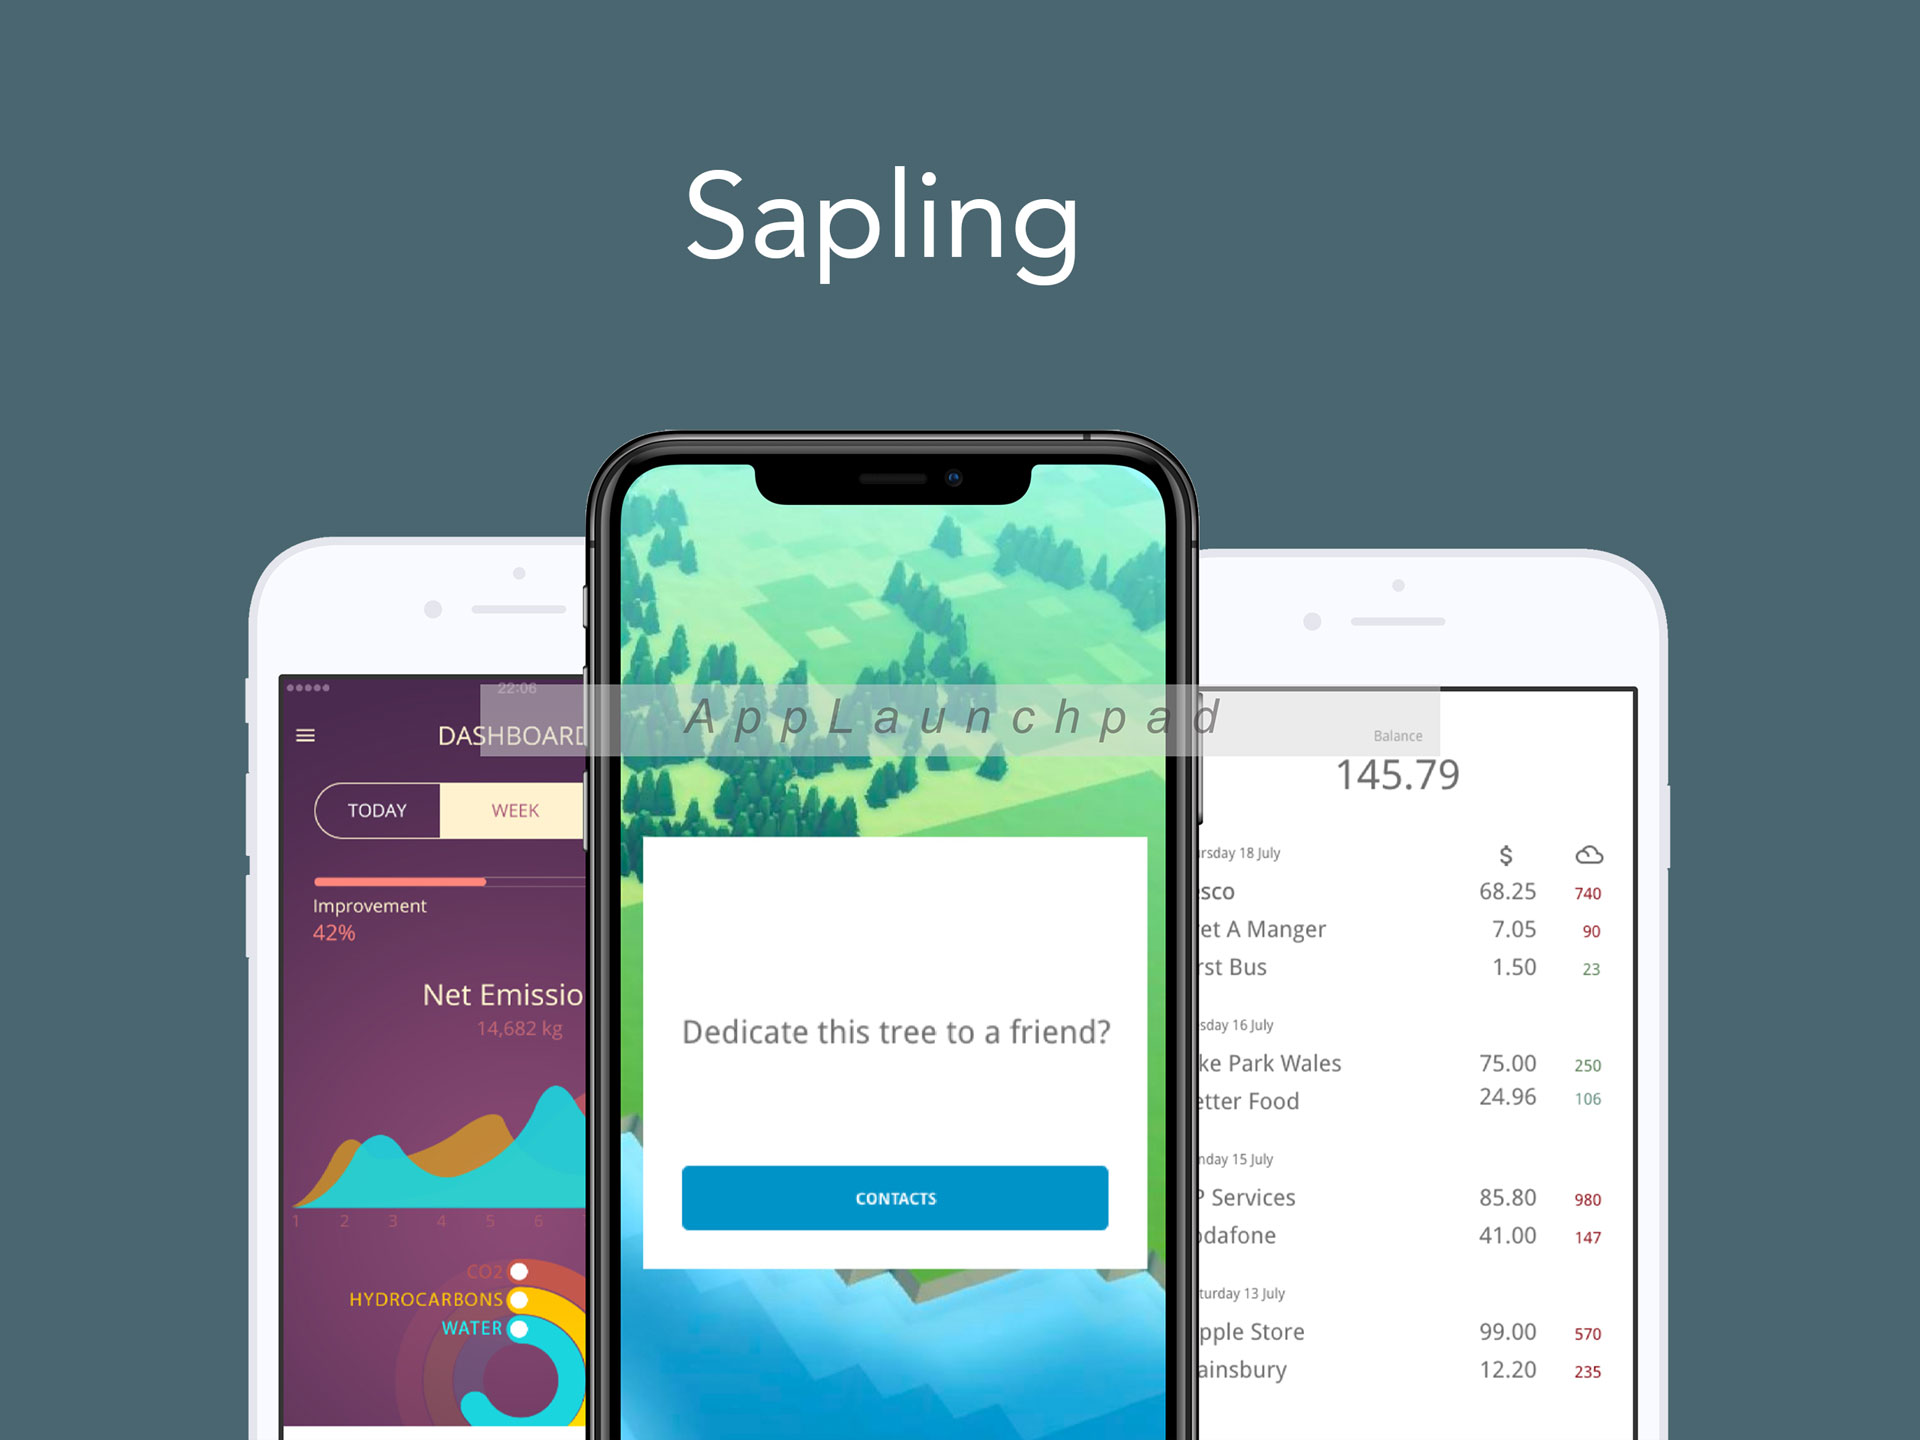
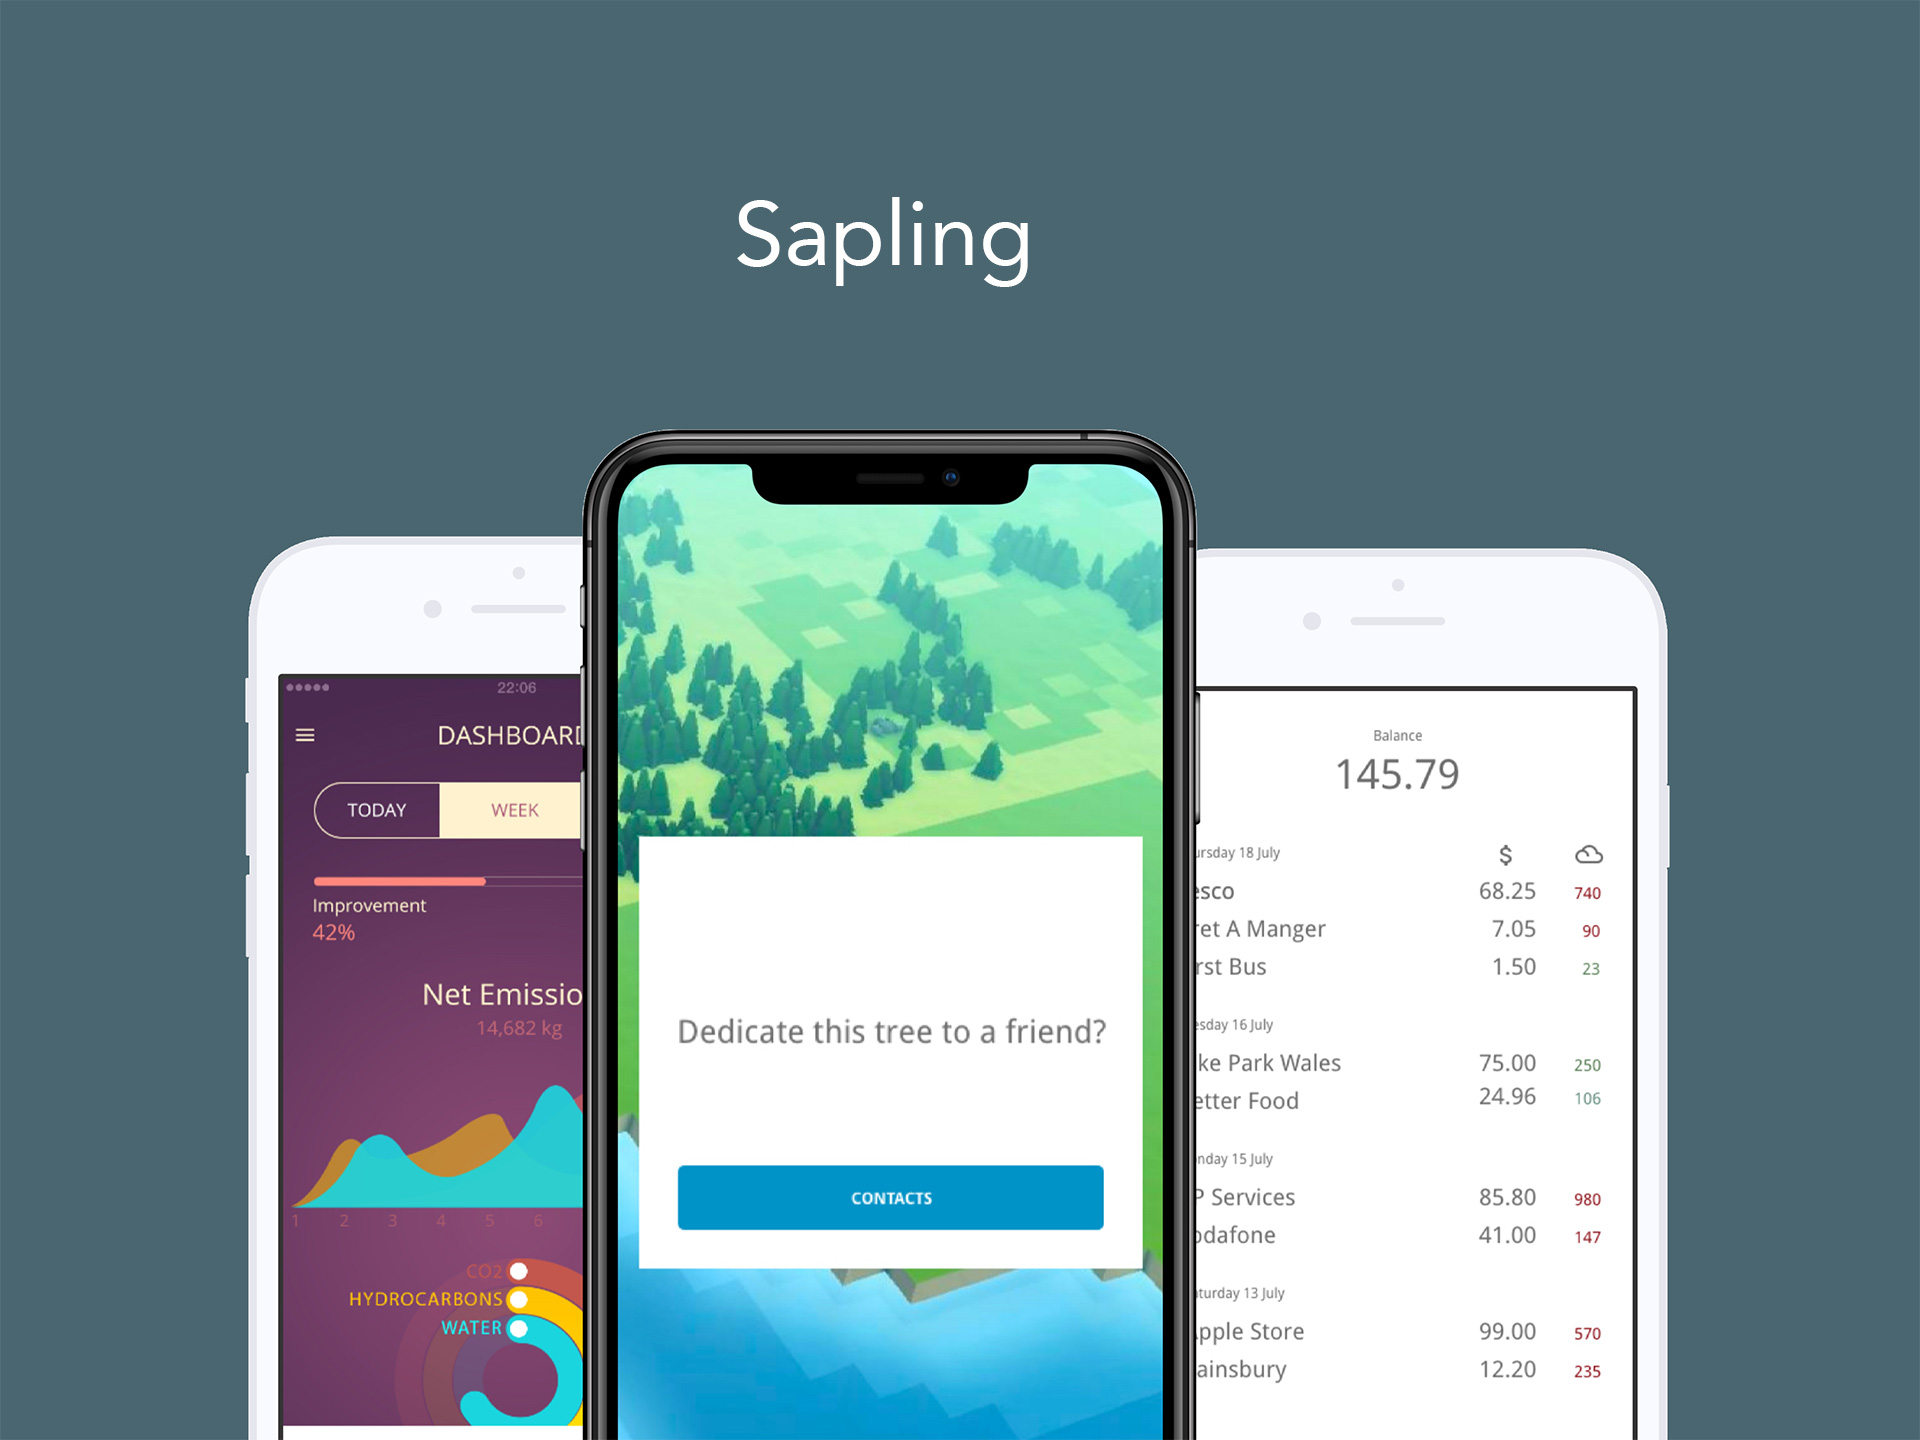
Layout V1

diff --git a/templates/template.html b/templates/template.html
@@ -3,19 +3,42 @@
 <html>
 <head>
     <meta charset="UTF-8">
+    <link href="https://fonts.googleapis.com/css?family=Nunito&display=swap" rel="stylesheet">
     <link rel="stylesheet" href="https://maxcdn.bootstrapcdn.com/bootstrap/4.0.0/css/bootstrap.min.css" integrity="sha384-Gn5384xqQ1aoWXA+058RXPxPg6fy4IWvTNh0E263XmFcJlSAwiGgFAW/dAiS6JXm" crossorigin="anonymous">
     <link rel="stylesheet" href="/static/stylesheets/app.css">
 
     <title>Sapling</title>
 </head>
 <body>
-    <div class="jumbotron">
-        <div class="container">
+    <div class="hero">
+        <div class="row" id="title">
+            <div class="col">
+
+            </div>
+            <div class="col text-center my-auto">
+                <h1 class="display-2">Sapling</h1>
+                <p>Next generation banking.</p>
+            </div>
+            <div class="col">
+
+            </div>
 
         </div>
+
+        <div class="row">
+            <div class="col-1">
+
+            </div>
+            <div class="col-10 text-center">
+                <img src="/static/img/sapling-m.png" class="img-fluid">
+            </div>
+            <div class="col-1">
+
+            </div>
+        </div>
+
     </div>
-    <br>
-    <div class="container">
+    <div class="container" id="content">
         <p> Sapling is a challenger bank.
 
             It challenges more than just the financial industry.
@@ -43,7 +66,6 @@
         <p>Not yet!</p>
 
         <h2>The Product</h2>
-        <p>Did you notice that in 2018, cash became virtually obsolete? This means that everything you spend goes through your bank and / or cards.</p>
 
         <p>Imagine an extra column on your bank statement. It’s not in pounds and pence; it’s in grammes. It’s the carbon footprint of every single purchase you make.</p>
 
@@ -52,16 +74,16 @@
         <p>Easy-to-understand reports give you the breakdown and highlight opportunities for improvement. Switch to retailers who’ve banned single-use packaging and favour local produce. See how many tonnes you can save by switching your energy supplier. Still over budget? Plant some trees!</p>
 
         <h2>The Plan</h2>
-        <p>Sapling is a community. That’s why the first round of investment is a crowdfund. We need £100K to take the current prototype to the next stage.</p>
+        <p>Sapling is a community. That’s why the first round of investment is a crowdfund. £100K is needed to take the current prototype to the next stage.</p>
 
-        <p>We already have:</p>
+        <p>Already in place:</p>
             <ul>
                 <li>Prototype Android and iOS apps</li>
                 <li>An API layer to connect to Open Banking, Point of Sale and loT devices</li>
                 <li>Support for cryptocurrencies</li>
             </ul>
 
-                <p>We now need:</p>
+                <p>To do:</p>
         <ul>
             <li>User Experience design</li>
             <li>KYC onboarding</li>
@@ -73,7 +95,7 @@
         <h2>The Payback</h2>
         <p>Profit is good. Profit motivates. But profit at the expense of the planet’s future is not worth having.</p>
 
-        <p>Sapling makes sustainable profits by lending to ethical projects, and these profits are distributed to our shareholders.</p>
+        <p>Sapling makes sustainable profits by lending to ethical projects, and these profits are distributed to its shareholders.</p>
 
     </div>
 </body>

diff --git a/static/stylesheets/app.css b/static/stylesheets/app.css
@@ -1,37 +1,21 @@
-
- .jumbotron {
-     height: 100vh;
-     background-image:url("/static/stylesheets/sapling.jpg");
-     background-repeat: no-repeat;
-     background-size: cover;
- }
-
-.jumbotron h1 {
-    font-size: 80px;
-    font-family: arvo;
-    font-weight: 300;
-    letter-spacing: 6px;
+body {
+    font-family: 'Nunito';
 }
 
-.jumbotron h3 {
-    font-weight: 300;
+.hero {
+    background-color: #4A6670;
 }
 
-.jumbotron h1, .jumbotron h3 {
+#title {
+    height: 300px;
+}
+
+h1 {
     color: white;
+    size: 3em;
 }
 
-.course-panel {
-    padding: 20px;
+#content {
+    margin-top: 50px;
 }
 
-
-.jumbotron .container {
-    position: relative;
-    top:30%;
-    text-align: left;
-}
-
-.navbar-inverse {
-    margin-bottom: 0;
-}
